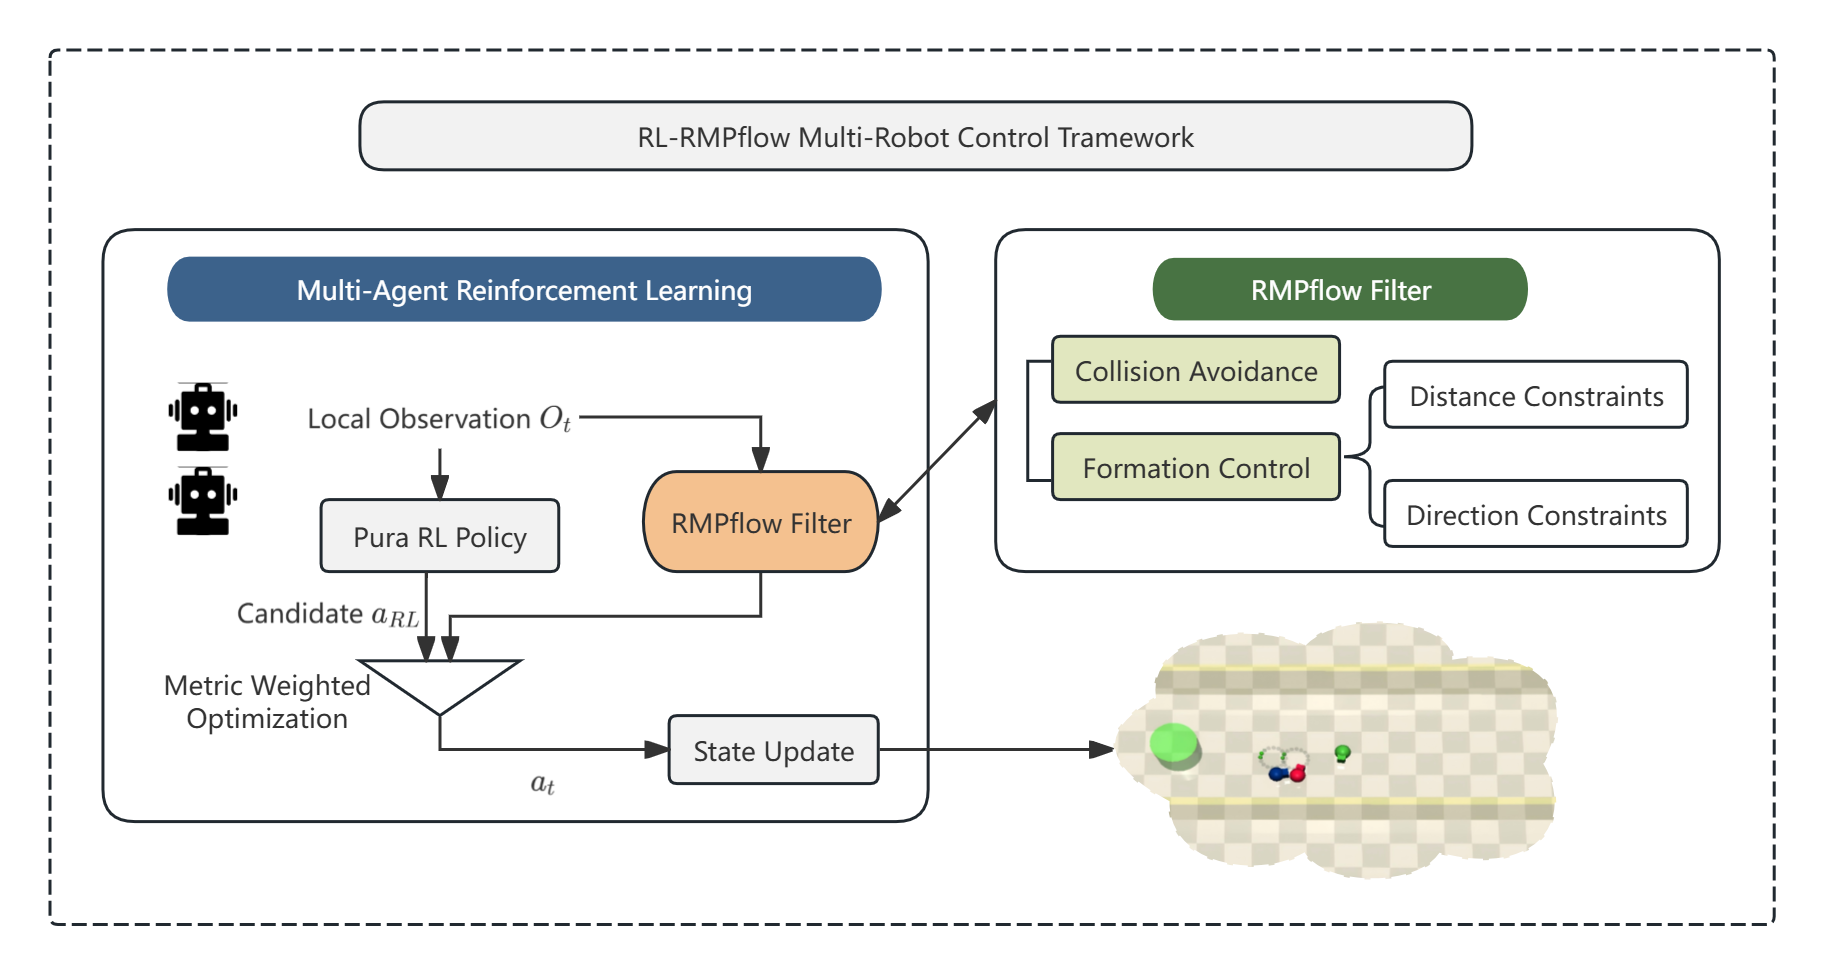
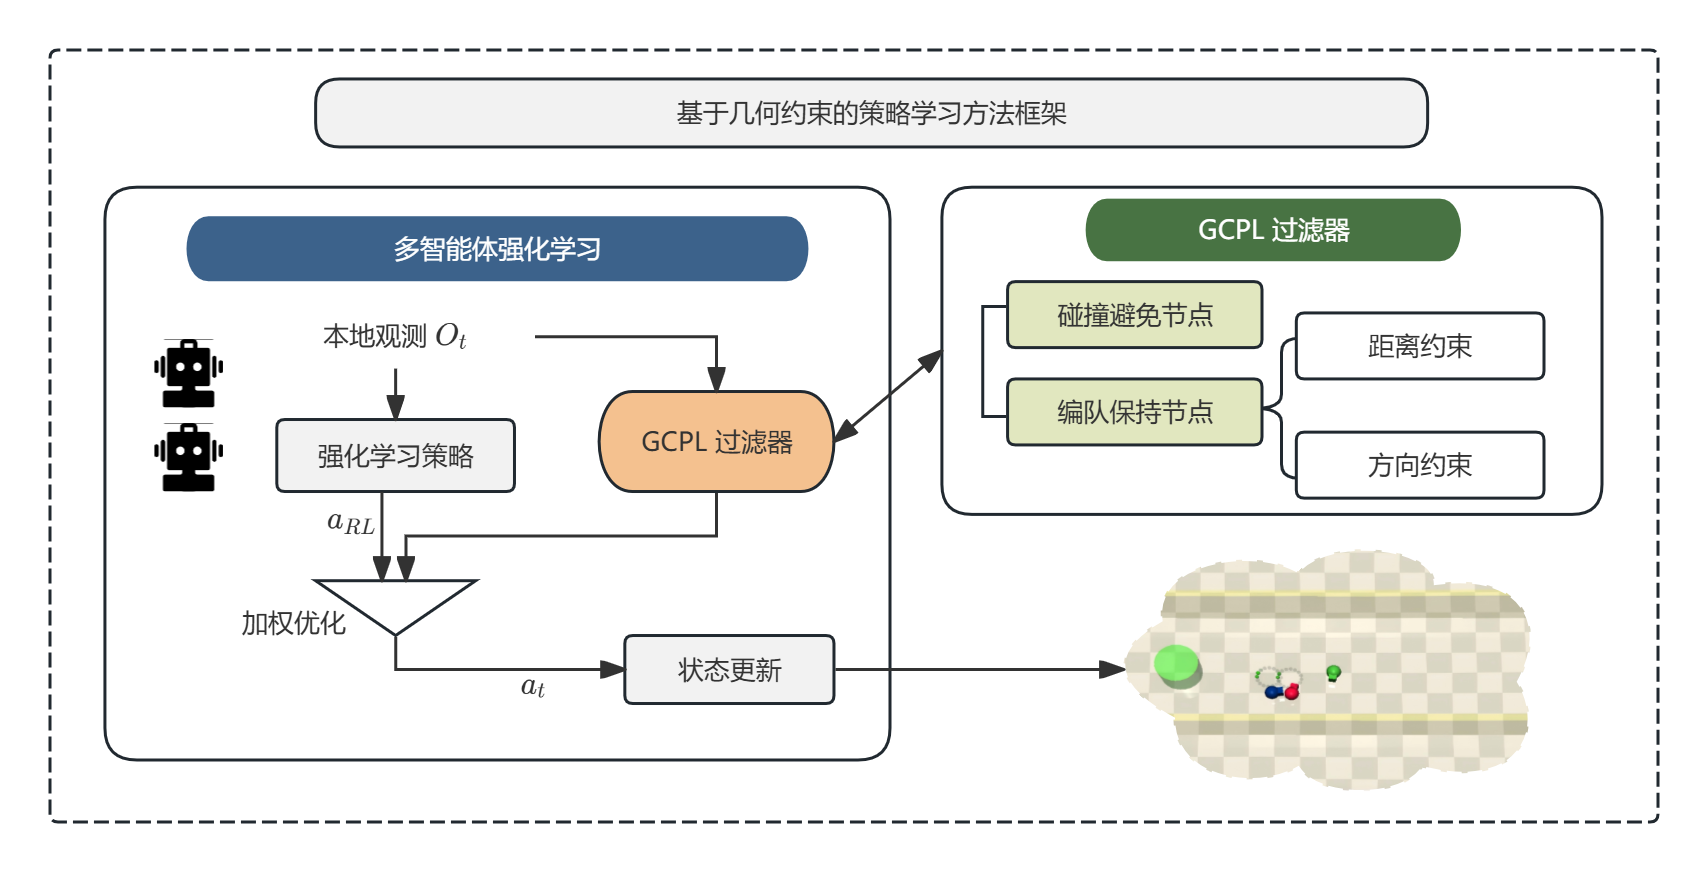
评审意见修改

diff --git a/paper-safeMARL/contents/chap1.tex b/paper-safeMARL/contents/chap1.tex
@@ -27,13 +27,19 @@
 % 多机器人场景中的风险还会进一步放大：单个机器人的动作变化可能影响邻近机器人，局部约束违背也可能传递为整体编队的不稳定。
 % 因此，如何在策略学习过程中显式处理安全约束，是多机器人强化学习应用中必须解决的问题。
 
-因此，有必要构建一种兼顾安全约束、编队协同和部署可行性的策略学习方法，使机器人在不确定环境下能够保持较稳定的安全行为。
+因此，本文的问题场景如图~\ref{fig:background}所示，即不确定环境中，要求多机器人完成编队任务的同时满足安全约束并保持稳定协同。为此，有必要构建一种兼顾安全约束、编队协同和部署可行性的策略学习方法，使机器人在不确定环境下能够保持较稳定的安全行为。
+
+\begin{figure}[h]
+    \centering
+    \includegraphics[width=0.8\textwidth]{images/background.png}
+    \figcap{问题场景}{Problem scenario.}
+    \label{fig:background}
+\end{figure}
 
 基于上述背景，本文围绕不确定环境下多机器人安全强化学习问题展开研究，重点关注三个方面：
 一是利用约束流形与可达性分析对策略动作进行安全修正，减少训练和执行过程中的约束违背；
 二是在多机器人编队导航任务中引入几何约束机制，使编队结构保持、安全距离约束和任务动作生成能够在统一框架下协同工作；
 三是构建容器化仿真验证平台，为不同安全强化学习算法提供一致的运行环境和评估流程，从而验证所提方法在复杂场景中的有效性与可扩展性。
-这样既能回应强化学习策略在安全性上的不足，也能使本文研究与多机器人编队导航的实际部署需求更加贴近。
 
 \section{研究意义}
 
@@ -44,7 +50,15 @@
 从工程应用角度看，本文研究也具有较明确的现实意义。多机器人系统在仓储物流、灾害救援、巡检监测和无人系统协同等场景中，通常需要在动态环境下长时间运行，单纯追求任务完成效率并不能满足部署需求。若缺少可靠的安全机制，机器人在探索或执行过程中一旦发生碰撞或队形失稳，就可能导致任务中断甚至设备损坏。本文设计的容器化仿真验证平台，为安全强化学习方法提供了统一的运行环境、算法接口和评估流程，有助于减少训练环境与部署环境之间的不一致，并便于对不同算法进行复现实验和公平比较。通过将安全机制、多机器人协同策略和系统级验证平台结合起来，本文研究能够为复杂场景下多机器人安全部署提供一定的技术支撑。
 
 \section{研究内容}
-在不确定环境下，多机器人系统需要在与环境持续交互的过程中学习任务策略，并根据障碍物分布、运动状态和感知误差的变化调整自身行为。强化学习为这类问题提供了数据驱动的策略优化思路，但其试错式训练过程也带来了安全风险。对于编队导航任务而言，机器人不仅要完成目标到达，还要避免碰撞、保持安全距离并维持队形结构；一旦策略在训练或执行阶段输出不安全动作，就可能造成约束违背、队形破坏甚至任务失败。另一方面，现有方法多依赖仿真环境进行训练，再迁移至实际机器人系统中部署，而仿真到现实之间的动力学差异、传感器噪声和环境不确定性会进一步影响策略的可靠性。因此，本文围绕不确定环境下多机器人安全强化学习问题展开研究，重点从安全动作约束、编队协同策略和系统验证平台三个方面开展工作，力求在保证安全性的基础上提升多机器人任务执行效率与部署可行性。
+在不确定环境下，多机器人系统需要在与环境持续交互的过程中学习任务策略，并根据障碍物分布、运动状态和感知误差的变化调整自身行为。强化学习为这类问题提供了数据驱动的策略优化思路，但其试错式训练过程也带来了安全风险。对于编队导航任务而言，机器人不仅要完成目标到达，还要避免碰撞、保持安全距离并维持队形结构；一旦策略在训练或执行阶段输出不安全动作，就可能造成约束违背、队形破坏甚至任务失败。另一方面，现有方法多依赖仿真环境进行训练，再迁移至实际机器人系统中部署，而仿真到现实之间的动力学差异、传感器噪声和环境不确定性会进一步影响策略的可靠性。因此，本文围绕不确定环境下多机器人安全强化学习问题展开研究，重点从安全动作约束、编队协同策略和系统验证平台三个方面开展工作，力求在保证安全性的基础上提升多机器人任务执行效率与部署可行性。技术路线如图~\ref{fig:tech_route}所示。
+
+\begin{figure}[h]
+    \centering
+    \includegraphics[width=0.8\textwidth]{images/tech_route.png}
+    \figcap{技术路线}{Technical route.}
+    \label{fig:tech_route}
+\end{figure}
+
 
 \textbf{（1）构建基于约束流形与可达性分析的安全策略修正方法}：传统强化学习算法主要通过与环境反复交互来最大化累积奖励，通常不会在动作生成阶段显式保证安全约束。已有安全强化学习方法虽然引入了代价约束或惩罚机制，但多数仍属于软约束形式，约束满足效果容易受到惩罚权重和训练状态的影响，在动态环境和感知噪声条件下难以稳定实现低违约甚至零违约表现。针对这一问题，本文引入约束流形思想，将机器人与障碍物之间的安全距离、状态边界等约束转化为增广状态空间中的流形约束，并通过零空间投影对策略输出的原始动作进行修正，使最终执行动作尽量保持原策略意图，同时满足安全可行条件。在此基础上，本文结合离线可达性分析，利用环境先验和采样轨迹构建安全可达空间，使安全裕度能够随机器人运动状态和环境风险变化进行调整。考虑到传感器噪声会影响安全判断的准确性，本文进一步引入数据驱动的状态估计模块，对速度相关噪声条件下的测量协方差进行自适应建模，从而为安全过滤器提供更可靠的状态输入。
 

diff --git a/paper-safeMARL/contents/chap51.tex b/paper-safeMARL/contents/chap51.tex
@@ -10,7 +10,7 @@
 前两章分别从约束流形安全过滤和多机器人几何约束策略学习两个角度提出了安全强化学习方法，相关实验主要在 \textit{Safety-Gymnasium} 中独立开展，缺少在统一仿真环境下对两类方法进行端到端运行与公平比较的条件。
 
 基于上述需求，本章设计并实现了一套支持远程访问的容器化仿真验证平台。
-该平台基于开源教学系统 \textit{RoboticsAcademy} 进行扩展，由面向多机器人编队任务的场景层、容器化算法层以及可复现评估管线组成，能够在隔离运行环境中承载不同安全强化学习方法的协同执行与对比评估。
+该平台由面向多机器人编队任务的场景层、容器化算法层以及可复现评估管线组成，能够在隔离运行环境中承载不同安全强化学习方法的协同执行与对比评估。
 
 在执行管线层面，平台将前两章方法以
 \[\text{MAPPO} \;\rightarrow\; \text{几何协调层（GCPL）} \;\rightarrow\; \text{硬安全投影层} \;\rightarrow\; \text{差速映射}\]
@@ -46,10 +46,9 @@
 算法容器层对强化学习算法运行环境进行封装。借助 Docker 容器，将深度学习框架与安全强化学习相关依赖统一集成，同时支持策略模型的加载与执行，从而保证训练环境与验证环境的一致性。
 分层集成层，用于在统一执行框架下接入第三章 CMPL 与第四章 GCPL 两类方法。通过将强化学习策略输出、几何协调过程以及安全约束投影按序串联，形成完整的控制管线，使两类方法能够在同一仿真任务中协同运行，便于后续在相同条件下进行对比与评估。
 最上层为评估管线层，负责实验流程管理与结果分析。该层支持批量实验调度、消融实验配置以及自动化结果统计与可视化，从而实现对不同算法性能的系统性比较。
-
-相较于原始 \textit{RoboticsAcademy} 平台，本文在多个层面进行了扩展。仿真场景由单机器人任务扩展为多机器人编队环境，同时控制接口从单体 API 演化为多智能体通信体系。
-算法运行环境引入安全强化学习相关依赖，并通过分层控制结构实现了 CMPL 与 GCPL 的统一集成。此外，实验评估流程由单次运行扩展为支持批量对比与自动分析的完整管线。
 通过上述设计，平台实现了从仿真环境构建、算法执行到实验评估的完整闭环，为多机器人安全强化学习方法的验证与工程应用提供了统一且可扩展的基础支撑。
+% 相较于原始 \textit{RoboticsAcademy} 平台，本文在多个层面进行了扩展。仿真场景由单机器人任务扩展为多机器人编队环境，同时控制接口从单体 API 演化为多智能体通信体系。
+% 算法运行环境引入安全强化学习相关依赖，并通过分层控制结构实现了 CMPL 与 GCPL 的统一集成。此外，实验评估流程由单次运行扩展为支持批量对比与自动分析的完整管线。
 \begin{figure}[htbp]
     \centering
     \includegraphics[width=\linewidth]{figs/chap5_architecture.pdf}

diff --git a/paper-safeMARL/contents/chap6.tex b/paper-safeMARL/contents/chap6.tex
@@ -20,3 +20,7 @@
 （2）随着机器人数量的增加，多智能体系统在通信负载、计算复杂度和策略协同方面会面临更高要求。未来可结合图神经网络、分布式学习等方法，进一步提升算法在大规模系统中的扩展能力与计算效率。
 
 （3）本文实验主要基于仿真环境完成，后续工作仍需在实际机器人平台上开展进一步实验，重点考察传感器误差、执行器延迟、通信不稳定和场景扰动等因素对方法性能的影响。
+
+（4）本文提出的 GCPL 方法在常规编队导航任务中能够降低碰撞风险并提升队形稳定性，但在密集编队、狭窄通道等复杂场景中，固定权重或度量矩阵可能导致局部极小值、路径震荡等问题。后续可引入动态权重调整、任务优先级和冲突重规划机制，使编队能够根据环境变化临时调整形态，并在通过复杂区域后恢复目标队形。
+
+（5）本文的数据驱动 EKF 主要基于速度相关的高斯噪声模型进行训练，能够刻画运动速度增大导致测量误差上升的情况。但真实环境中的噪声可能更加复杂。后续可进一步考虑非高斯噪声、突发异常和分布外场景，并结合异常检测、在线校准或不确定性估计，提高状态估计模块在真实环境中的稳定性。

diff --git a/paper-safeMARL/评审意见修改.md b/paper-safeMARL/评审意见修改.md
@@ -1,0 +1,21 @@
+# 评审意见一
+1.在中文摘要中，作者声称在目标到达任务中，CMPL将平均安全代价由PPO的50.58降至5.87，在英文摘要(ABSTRACT)中，同样的实验描述里，PPO基线的数据变成了64.59，CMPL的结果变成了12.51
+**修改：** 当时着急加上发烧，只改了实验和中文摘要，忘记该英文摘要了，已修改
+2.在3.3.3对比实验章节中，正文文字描述提到：“在Goal任务中，PPO-Lag的cost从5.4　6(r=0.1)变化到13.9　1(r=0.5)”，查看紧随其后的表3-　2(Safety-Gymnasium在不同任务和惩罚系数设置下的结果)时，表中对应的数据却是：r=0.1时cost为4.88，r=0.5时cost为10.00
+**已检查，未发现上述问题** 
+3.正文3.2.1节中明确提到该方法为“约束流形策略学习方法（CMPL）”，但在第16页的算法伪代码标题中，却写的是“约束流形过滤训练算法”，且伪代码中完全没有体现“策略学习”的网络更新部分（只有过滤和采样）
+**修改：** 已修改伪代码标题，并添加网络更新部分，但排版比较丑（当初也是因为不好排版才只写了感觉比较重要的部分）
+4.使用“离线HJ可达性分析”，并引入了折扣因子γ来近似Bellman算子。然而，公式(3-12)是标准的在线动态规划形式
+**修改：** 这个我换了一下说法，但不确定行不行，或者应该怎么改。。。“基于 HJ 可达性思想的离线安全可达空间近似”，只是“利用已有轨迹样本拟合安全值函数”
+5.GCPL方法将RL策略、编队保持、避障作为势场力叠加。在多机器人密集编队中，如果避障势场（排斥力）和编队保持势场（吸引力）发生冲突（例如狭窄通道中必须解散编队才能通过），该方法极易产生局部极小值（Local　Minima）或震荡。实验中虽然成功率提升了，但文中完全没有提及如何处理这种动力学冲突。如果仅靠“权重调节”（如表4-1中的度量矩阵），在复杂环境中是不够鲁棒的
+6.公式(3-26)假设噪声是已知的高斯分布来生成训练数据，这属于Supervised　Learning。但在真实未知环境中，如果噪声不是速度的线性函数（公式3-17），或者存在突发的非高斯噪声（如传感器失灵），这个CNN能泛化吗？文中缺乏对这种“分布外泛化（OOD）”能力的验证
+7.近三年权威文献引用比较少，正式期刊论文比例偏低
+**修改：** 意见5、6感觉比较复杂，放在展望中了，不知道行不行
+
+# 评审意见二
+1.作者提出约束流形策略学习方法、几何约束策略学习方法，两种方法之间是否存在递进关系？目前看相对独立；
+**这里还没有改** 
+2.第一章建议增加一张研究背景图，直观展示“不确定环境—多机器人编队—安全约束—强化学习策略”的整体问题场景;
+**修改：** 添加了一张比较简陋的图
+3.建议在第1章或第3章前增加全文技术路线图.
+**修改：** 第一章添加了一张技术路线图半成品
